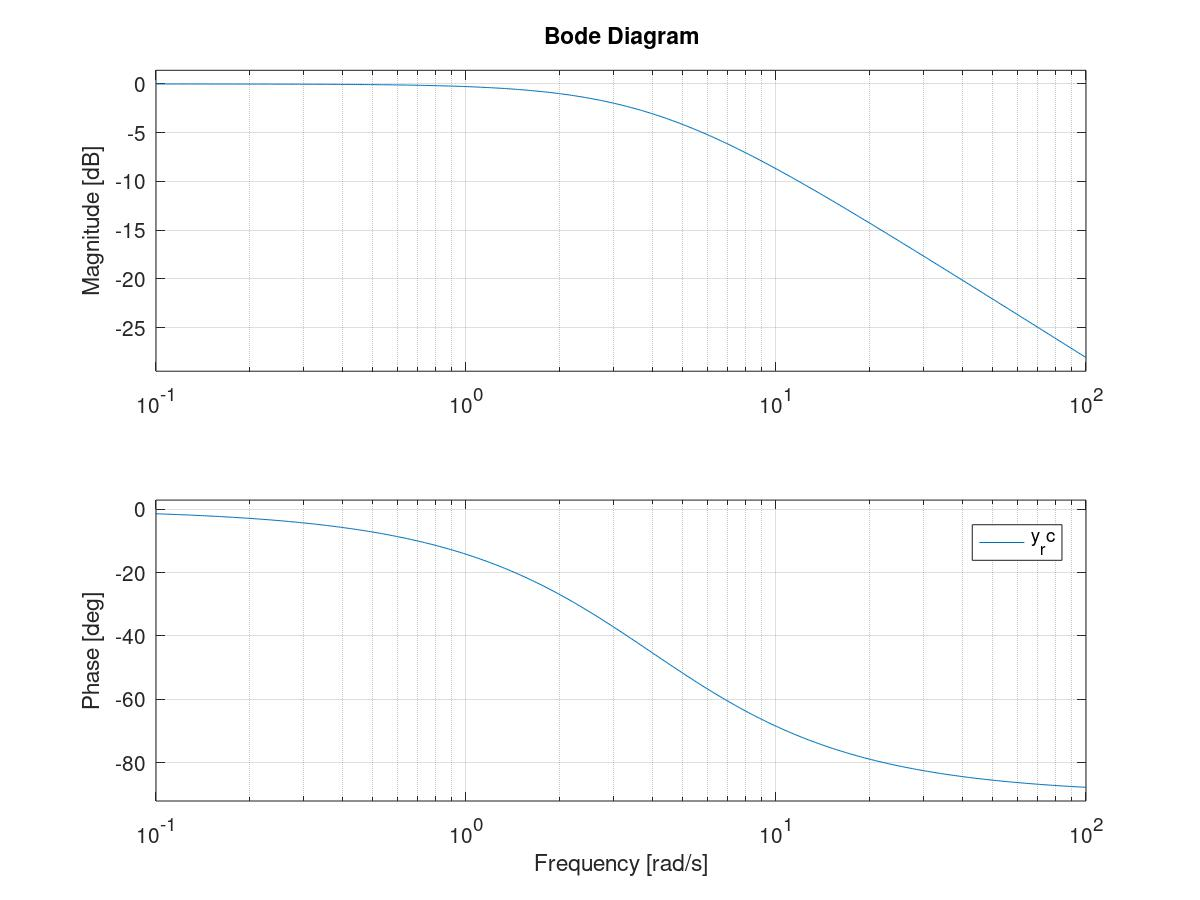
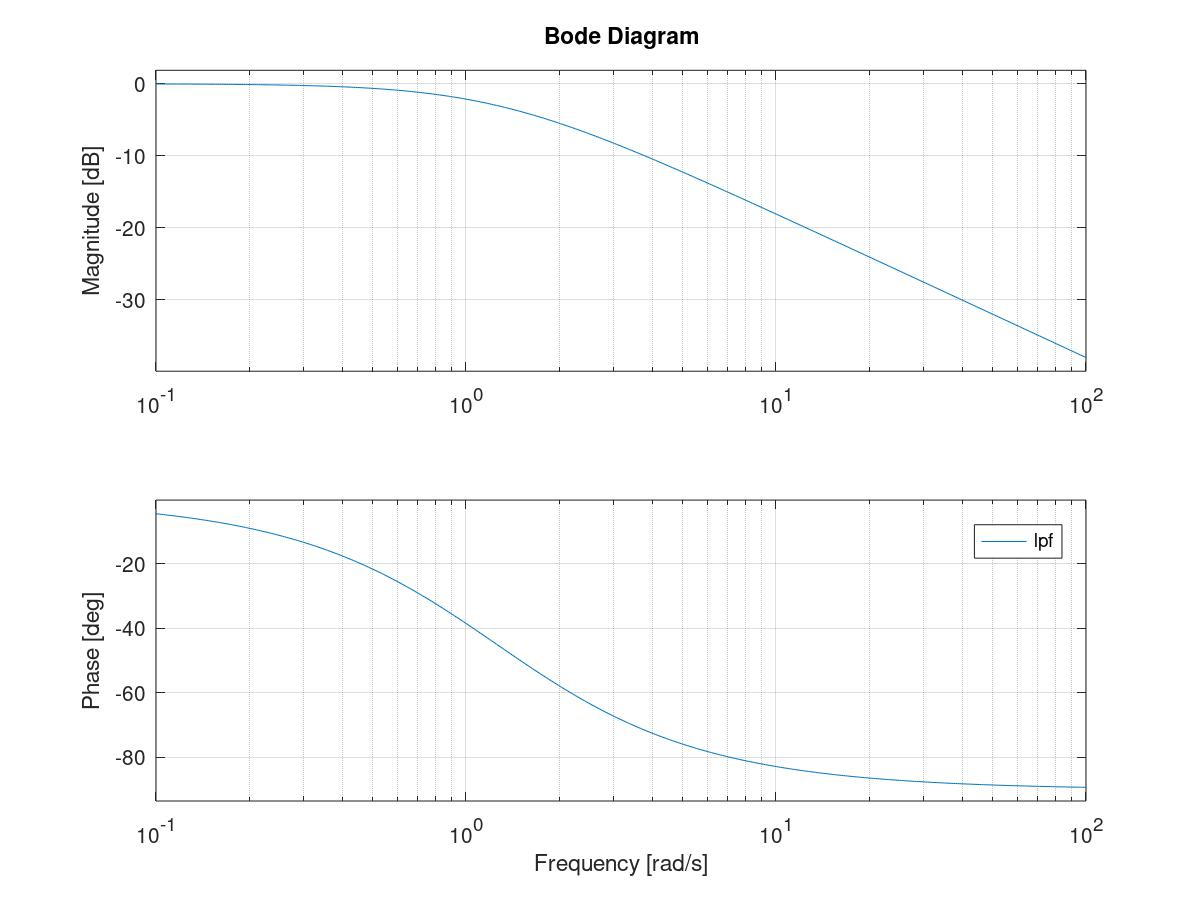
update

diff --git a/pages/project/page/一阶低通滤波器.md b/pages/project/page/一阶低通滤波器.md
@@ -55,7 +55,7 @@ legend('x','y \alpha = 0.2','y \alpha = 0.4','y \alpha = 0.6','y \alpha = 0.8');
 
 可以看到$\alpha$数值越小，滤波后的曲线确实是越平滑的。虽然滤波系数能够滤掉高频噪声，但是信号失真会更加严重。
 
-@todo 分析一阶滤波器中$\alpha$越截止频率之间的关系
+一阶滤波器中$\alpha$越截止频率之间的关系
 
 $$
 f_{cut}=\frac{\alpha}{2{\pi}T}
@@ -75,11 +75,11 @@ $$\alpha=2{\pi}f_{cut}T$$
 ```matlab
 %计算一阶滤波器Bode图
 figure
-fcut=0.6283;%截止频率
-RC=1/2/pi/fcut;
+f_cut=0.2;%截止频率
+RC=1/2/pi/f_cut;
 pkg load control
-y_rc = tf(1,[RC,1]);
-bode(y_rc)
+lpf = tf(1,[RC 1]);
+bode(lpf);
 ```
 
 实际工程应用过程中，会根据当前运动状态对$\alpha$做适当的调整，从而满足自适应的要求。
